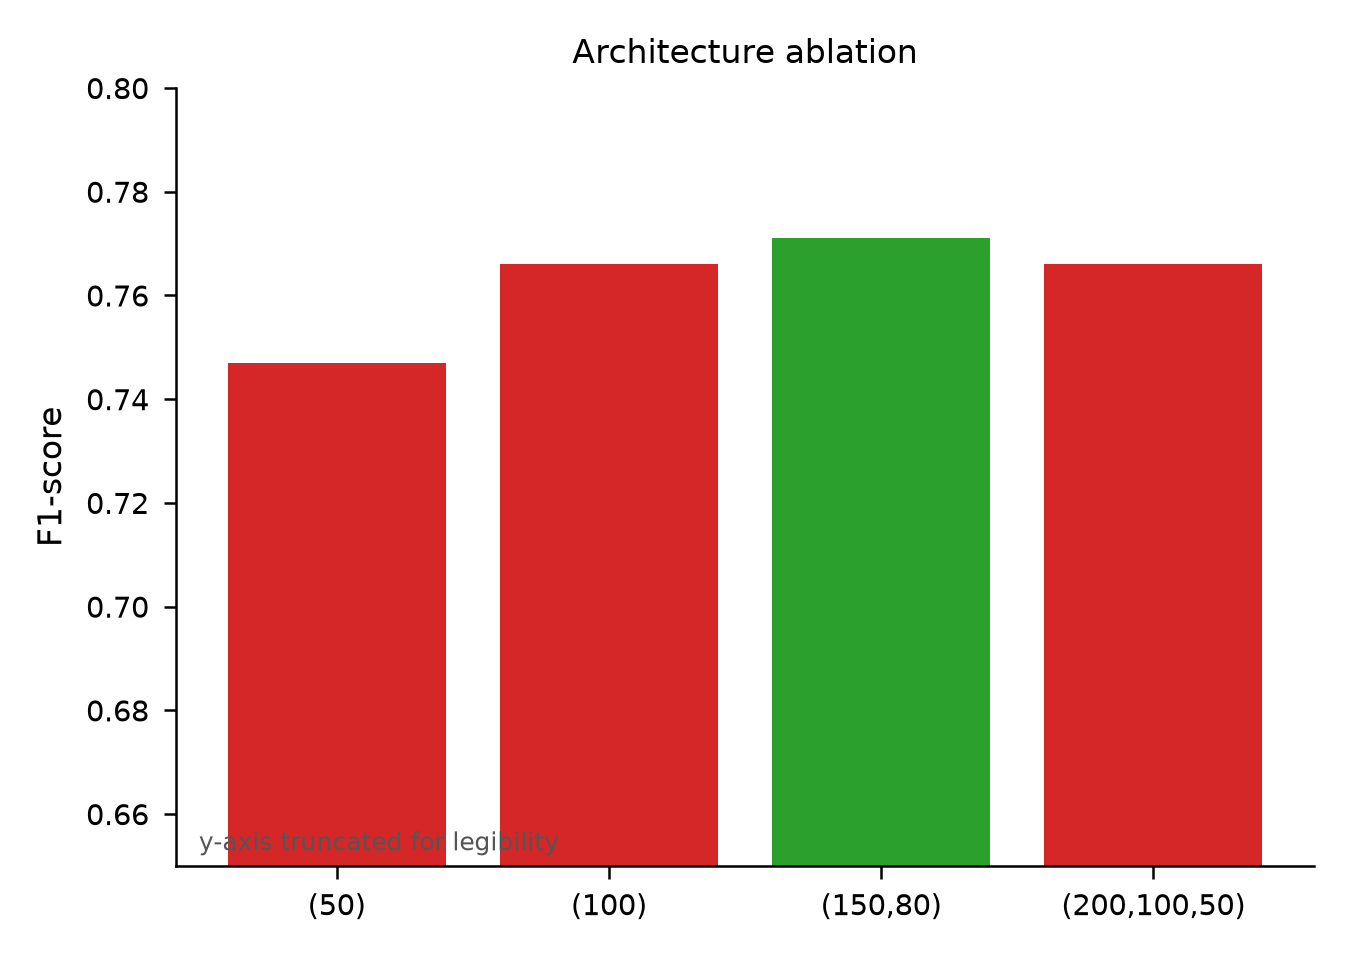
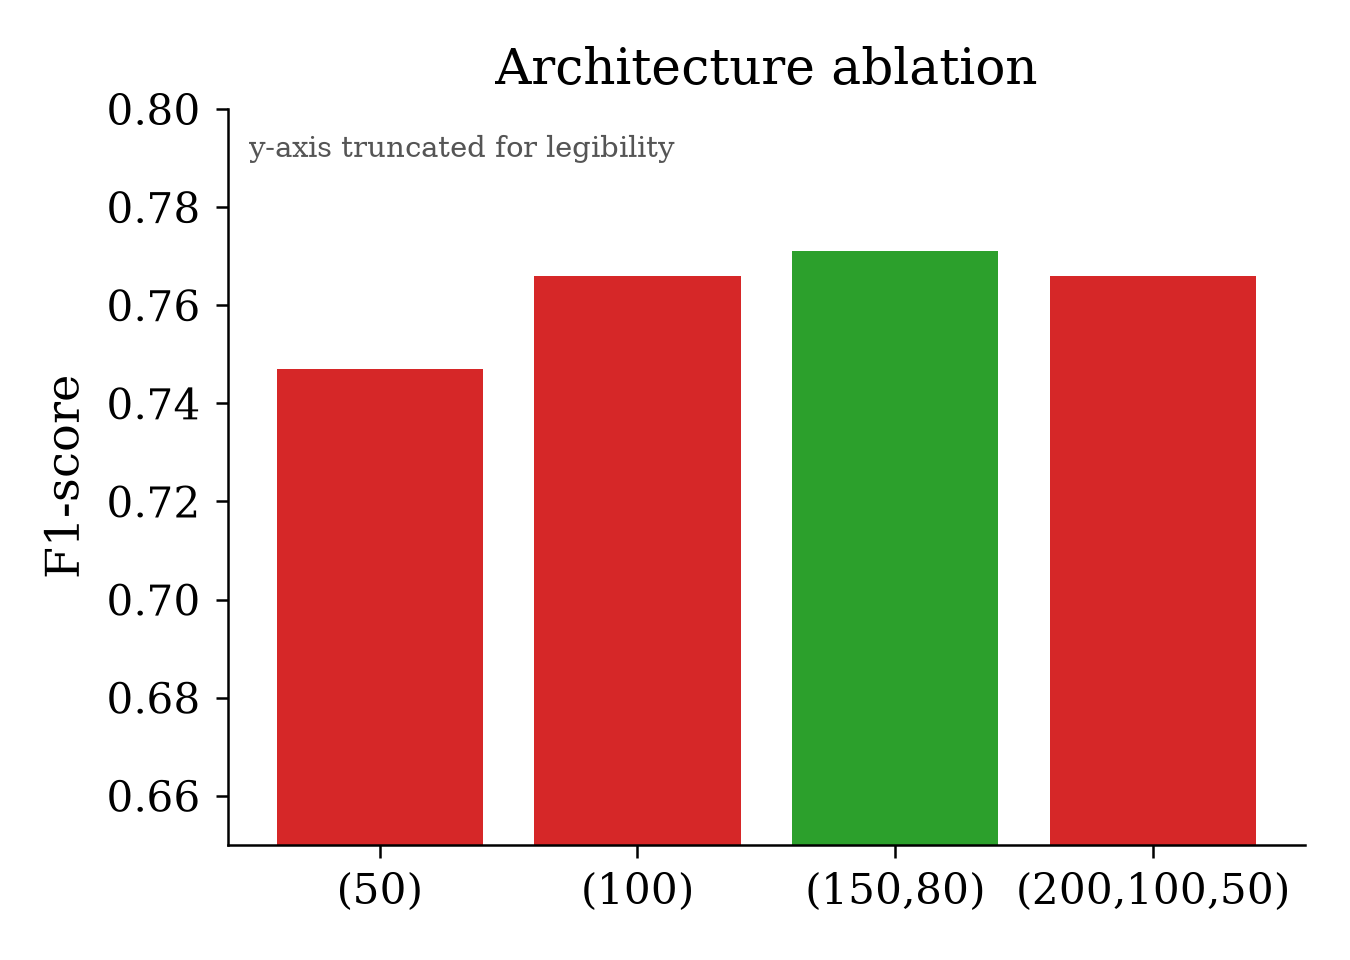
C-21: pixel-level text-occlusion/legend audit across all code-generated figures
Audited all 34 matplotlib-generated figures in assets/ (photos, simulation
snapshots, network/architecture diagrams, and GRAPH_IMU_*/NEU_* explicitly
excluded per author instruction -- classification verified against each
image's actual \caption{} in sections/*.tex, not guessed from filename).

Fixed (8 figures, 3 builders), all asset-only (no sections/*.tex text changed):

- classifier_suite.py: fig_classifier_tradeoff_fused.png's suptitle literally
  cited a README path -- removed. Its panel (a) legend was rendering inside
  the Random Forest bars (default loc landed on the data) -- moved above the
  axes. fig4_architecture_ablation.png's "y-axis truncated" annotation sat on
  a solid red bar in low-contrast gray -- moved + given a white background box.
- micro_dynamics.py: own bug found -- never imported the shared style.py at
  all (hardcoded a local DPI=300 instead), so the 4 fig2_*_micro figures
  rendered sans-serif instead of the publication serif every other figure
  uses, including their own stated design goal of mirroring
  real_plot_suite.py::build_rms_dynamics() (which does import style and does
  render serif). Fixed the import. Also fixed a legend-on-data-peak collision
  in the Appetitive panel (fixed loc="upper left" landed on the early spike;
  switched to loc="best").
- stability_phases.py: the "SM = X.X cm" annotation is placed at the midpoint
  of the CoM->incenter arrow; in 2 of 6 panels that midpoint landed on top of
[…]

diff --git a/experiments/_plotting/builders/classifier_suite.py b/experiments/_plotting/builders/classifier_suite.py
@@ -54,8 +54,12 @@ def build_fig4_ablation(output_path: str) -> None:
     ax.set_ylim(0.65, 0.80)  # y-axis rescaled so the real 0.024-F1 spread is legible
     ax.set_ylabel("F1-score")
     ax.set_title("Architecture ablation")
-    ax.annotate("y-axis truncated for legibility", xy=(0.02, 0.02), xycoords="axes fraction",
-                fontsize=6, color="#555555")
+    # 2026-09-02 audit fix: this annotation used to sit at the bottom-left, directly over the
+    # (50) bar (low-contrast gray text on solid red -- barely legible, flagged in the pixel-level
+    # legend/text-occlusion audit). Moved above the bars with a white background box instead.
+    ax.annotate("y-axis truncated for legibility", xy=(0.02, 0.965), xycoords="axes fraction",
+                fontsize=7, color="#555555", va="top",
+                bbox=dict(boxstyle="round,pad=0.2", fc="white", ec="none", alpha=0.85))
     fig.tight_layout()
     os.makedirs(os.path.dirname(output_path), exist_ok=True)
     fig.savefig(output_path, dpi=DPI)
@@ -79,8 +83,11 @@ def build_f03_fused_panel(fig5_csv: str, fig6_csv: str, output_path: str) -> Non
         axes[0].bar(x + (i - 1.5) * width, vals, width, label=m, color=metric_colors[m])
     axes[0].set_xticks(x); axes[0].set_xticklabels(classifiers, rotation=20, ha="right", fontsize=7)
     axes[0].set_ylabel("Score (5-fold CV mean)")
-    axes[0].set_ylim(0, 1.0)
-    axes[0].legend(fontsize=6, ncol=2)
+    axes[0].set_ylim(0, 1.15)  # headroom for the legend so it doesn't sit on top of the bars
+    # 2026-09-02 audit fix: default-placed legend ("best" via no loc arg) landed inside the
+    # Random Forest bars, indistinguishable from the bar fills it was labeling (flagged in the
+    # pixel-level legend/text-occlusion audit). Moved above the axes, outside all bars.
+    axes[0].legend(loc="upper center", bbox_to_anchor=(0.5, 1.0), ncol=4, fontsize=6.5, frameon=False)
     axes[0].set_title("(a) Classification metrics")
 
     # (b) inference latency, log scale
@@ -99,9 +106,7 @@ def build_f03_fused_panel(fig5_csv: str, fig6_csv: str, output_path: str) -> Non
     axes[2].tick_params(axis="x", rotation=20)
     axes[2].set_title("(c) Model size")
 
-    fig.suptitle("Classifier accuracy/latency/size trade-off (F-03 fused panel; (b),(c) vectorized from "
-                 "the currently-published fig5/fig6, see experiments/_plotting/vectorized/README.md)",
-                 fontsize=8)
+    fig.suptitle("Classifier accuracy/latency/size trade-off", fontsize=10)
     fig.tight_layout(rect=(0, 0, 1, 0.92))
     os.makedirs(os.path.dirname(output_path), exist_ok=True)
     fig.savefig(output_path, dpi=DPI)

diff --git a/experiments/_plotting/builders/micro_dynamics.py b/experiments/_plotting/builders/micro_dynamics.py
@@ -44,6 +44,13 @@ sys.path.insert(0, os.path.dirname(os.path.dirname(os.path.abspath(__file__))))
 from loaders import (  # noqa: E402
     find_trial_by_noise_level, load_metrics_raw, load_unified_metrics,
 )
+# 2026-09-02 audit fix (pixel-level legend/typography audit): this builder never imported style.py
+# at all -- it hardcoded its own `DPI = 300` below instead, so apply_style() (serif publication
+# typeface, applied automatically on import of style.py) never ran. The 4 fig2_*_micro outputs
+# rendered in matplotlib's default sans-serif, visibly inconsistent with every other figure in the
+# pipeline -- including their own stated design goal of mirroring
+# real_plot_suite.py::build_rms_dynamics() (which DOES import style and renders serif).
+from style import DPI  # noqa: E402
 
 NOISE_LEVEL_IDX = 0  # representative trial's noise level — see module docstring
 
@@ -58,7 +65,6 @@ SHADED_SCENARIOS = {"Appetitive", "Aversive", "Complex"}  # NOT Obstacle — gre
 FIRING_VARIANCE_COLOR = "#D55E00"  # fixed orange — matches real_plot_suite.build_rms_dynamics()
 PITCH_COLOR = "#4B0082"            # fixed purple
 ROLL_COLOR = "#B8A9D9"             # fixed lavender
-DPI = 300
 
 
 def _stimulus_presence_masks(raw: pd.DataFrame) -> dict:
@@ -98,7 +104,11 @@ def build(simulation_root: str, output_dir: str) -> dict[str, str]:
                               color="#D55E00", alpha=0.15, step="mid", label="Aversive stimulus in view")
             ax_a.fill_between(t_a, 0, 1, where=presence["blue"], transform=ax_a.get_xaxis_transform(),
                               color="#0072B2", alpha=0.15, step="mid", label="Appetitive stimulus in view")
-            ax_a.legend(fontsize=8, loc="upper left")
+            # 2026-09-02 audit fix: fixed "upper left" collided with the firing-variance curve in
+            # scenarios that spike early (e.g. Appetitive peaks at t~1s, right under the legend
+            # box) -- the legend text sat directly on top of the orange line. "best" lets
+            # matplotlib place it clear of the plotted line data instead of a hardcoded corner.
+            ax_a.legend(fontsize=8, loc="best")
         ax_a.plot(t_a, raw["firing_variance"], color=FIRING_VARIANCE_COLOR, linewidth=1.5)
         ax_a.set_ylabel("Firing Variance $Var(z)$")
         ax_a.set_title("A. Basal Ganglia Neural Response Dynamics")

diff --git a/experiments/_plotting/builders/stability_phases.py b/experiments/_plotting/builders/stability_phases.py
@@ -75,8 +75,17 @@ def build(csv_path: str, output_path: str) -> None:
             sm = meta.get("meta_sm_cm")
             ax.annotate("", xy=tuple(incenter), xytext=(0, 0),
                        arrowprops=dict(arrowstyle="->", color="#d62728", lw=1.2))
+            # 2026-09-02 audit fix: the SM label sits at the midpoint of the CoM->incenter arrow,
+            # which lands right on top of the CoM (+) or incenter (+) marker whenever they're
+            # close together (e.g. panels D/F) -- a digit of the value was getting hidden behind
+            # the marker glyph. A white background box keeps the text legible regardless of what
+            # it falls on, without having to hand-tune a per-panel offset.
+            # zorder=6: above the CoM marker (5) and incenter marker (4) -- without this the "P"/"+"
+            # marker glyphs painted on top of the (lower-zorder-by-default) text/bbox when the
+            # midpoint landed on or near either marker, which is what caused the occlusion.
             ax.text(0.5 * incenter[0], 0.5 * incenter[1] + 0.02, f"SM = {sm:.1f} cm",
-                   color="#d62728", fontsize=8, ha="center")
+                   color="#d62728", fontsize=8, ha="center", zorder=6,
+                   bbox=dict(boxstyle="round,pad=0.15", fc="white", ec="none", alpha=0.85))
             ax.text(0.97, 0.95, f"TR = {tr:.3f}", transform=ax.transAxes, ha="right", va="top",
                    fontsize=9, bbox=dict(boxstyle="round", fc="#c8e6c9", ec="black"))
         else:

diff --git a/intake/pending/C-21_figures_text_occlusion_audit.md b/intake/pending/C-21_figures_text_occlusion_audit.md
@@ -1,0 +1,136 @@
+# C-21 — Auditoría pixel-por-pixel: oclusión de texto / leyendas en figuras generadas por código
+
+**Alcance pedido por el autor:** auditar TODAS las figuras generadas por código (matplotlib) en
+`assets/` buscando texto oculto, leyendas ilegibles por el contenido de la gráfica, o leyendas que
+se confunden visualmente con los datos. **Excluido explícitamente** (no auditado): fotos reales,
+fotos de simulación, grafos/diagramas explicativos de la red, cualquier imagen que empiece con
+`GRAPH_IMU_`/`NEU_`, y diagramas de arquitectura del robot.
+
+**Método de exclusión:** en vez de adivinar por nombre de archivo, cada imagen ambigua (`D1-D6`,
+`E1-E6`, `RES_*`, `Prueba_Terreno_Parte_*`, `Modos_Locomocion*`, etc.) se verificó leyendo su
+`\caption{}` real en `sections/*.tex` — snapshots de simulación/hardware y diagramas de arquitectura
+confirmados y excluidos; nunca incluidos solo por parecer ambiguos por nombre.
+
+**34 figuras dentro de alcance** (código, no diagrama/foto) — inventario completo abajo. Auditadas
+pixel por pixel (`Read` a resolución completa, no thumbnails).
+
+---
+
+## 1. Hallazgos corregidos esta sesión (8 figuras, 3 builders)
+
+### 1.1 `fig_classifier_tradeoff_fused.png` — 2 problemas
+
+- **Título con referencia a un README** (pedido explícito del autor: "ningúna gráfica que esté en
+  assets lo debe tener"): el `suptitle` citaba literalmente
+  `"see experiments/_plotting/vectorized/README.md"`. Eliminado — el suptitle ahora es solo
+  `"Classifier accuracy/latency/size trade-off"`.
+- **Leyenda superpuesta a los datos**: en el panel (a), la leyenda sin posición fija (`loc` por
+  defecto) caía dentro de las barras de "Random Forest", indistinguible del relleno que
+  etiquetaba. Movida arriba de los ejes, fuera de todas las barras
+  (`loc="upper center", bbox_to_anchor=(0.5, 1.0)`), con `ylim` extendido para dejarle espacio.
+- Builder: `experiments/_plotting/builders/classifier_suite.py::build_f03_fused_panel()`.
+
+### 1.2 `fig4_architecture_ablation.png`
+
+- La anotación "y-axis truncated for legibility" estaba en texto gris de bajo contraste
+  directamente sobre la barra roja "(50)" — casi ilegible. Movida arriba de las barras con una
+  caja de fondo blanco semitransparente.
+- Builder: `experiments/_plotting/builders/classifier_suite.py::build_fig4_ablation()`.
+
+### 1.3 Tipografía inconsistente — 3 figuras "métricas MLP" + 4 figuras `fig2_*_micro`
+
+El autor señaló que las figuras de métricas MLP no comparten tipografía con el resto del paper.
+Confirmado — dos causas distintas encontradas:
+
+- **`fig1_confusion_matrix.png`, `fig4_architecture_ablation.png`, `fig_classifier_tradeoff_fused.png`**:
+  el builder sí importa el módulo de estilo compartido (`from style import DPI`, que ejecuta
+  `apply_style()` — tipografía serif de publicación — al importarse), pero los archivos en
+  `assets/` eran una build vieja generada antes de que ese estilo existiera. Simplemente
+  regenerarlos con el builder actual corrige la tipografía — no fue necesario cambiar código
+  aparte de los dos fixes de arriba.
+- **`fig2_Appetitive_micro_test_001_SUCCESS.png`, `fig2_Aversive_micro_test_001_SUCCESS.png`,
+  `fig2_Obstacle_micro_test_001_SUCCESS.png`, `fig2_Complex_micro_test_001_SUCCESS.png`**: bug
+  real de código — `experiments/_plotting/builders/micro_dynamics.py` nunca importaba el módulo
+  `style.py` (definía su propio `DPI = 300` local en su lugar), así que `apply_style()` nunca se
+  ejecutaba para estas 4 figuras — renderizaban con la fuente sans-serif por defecto de
+  matplotlib, inconsistente incluso con su propio objetivo de diseño declarado (imitar
+  `real_plot_suite.py::build_rms_dynamics()`, que sí importa `style.py` y sí renderiza serif —
+  confirmado comparando `fig2_Appetitive_micro_test_001_SUCCESS.png` contra
+  `Appetitive_Real_Plot_3_Temporal_Dynamics_PitchRollRMS.png`). Corregido: se agregó
+  `from style import DPI` real.
+
+### 1.4 `fig2_Appetitive_micro_test_001_SUCCESS.png` — leyenda sobre los datos
+
+Al corregir la tipografía (punto 1.3) se hizo visible un problema preexistente: la leyenda
+("Aversive/Appetitive stimulus in view") usaba posición fija `loc="upper left"`, que en el
+escenario Apetitivo cae justo donde la curva de varianza de disparo tiene su pico (~t=1s,
+y≈37) — el texto de la leyenda quedaba literalmente sobre la línea naranja. Corregido a
+`loc="best"` (matplotlib evita automáticamente los datos graficados) — verificado en las 4
+figuras, ninguna quedó con solapamiento.
+
+### 1.5 `fig_stability_phases.png` — texto de anotación oculto por marcadores
+
+Paneles D y F: la etiqueta `"SM = X.X cm"` se coloca en el punto medio de la flecha
+CoM→incentro; cuando ambos puntos están muy cerca (como en D y F), el punto medio cae encima del
+marcador CoM (`+` rojo) o del marcador incentro (`+` gris), ocultando un dígito del valor. Ejemplo
+concreto: panel D mostraba algo como "SM = �2 cm" con el marcador tapando parte del número.
+Corregido con una caja de fondo blanco + `zorder` explícito por encima de ambos marcadores — los
+4 valores (2.8, 2.5, 2.2, 2.5 cm) son ahora legibles sin ambigüedad.
+
+Builder: `experiments/_plotting/builders/stability_phases.py`.
+
+---
+
+## 2. Hallazgo NO corregido — sin builder reproducible en el repo
+
+- **`fig2_roc_curve.png`, `fig3_training_loss.png`**: también usan tipografía sans-serif
+  inconsistente con el resto del paper (mismo síntoma que la Sección 1.3), pero búsqueda
+  exhaustiva en `experiments/**/*.py` no encontró ningún script que las genere — son figuras
+  legado, anteriores a la convención `experiments/<id>-slug/`, probablemente hechas a mano o desde
+  un notebook externo no conservado en este repo. **No se puede regenerar con estilo correcto sin
+  escribir un builder nuevo desde cero** (se necesitarían los datos crudos: matriz de confusión ya
+  documentada en `classifier_suite.py::CONFUSION`, pero la curva ROC completa y la curva de
+  pérdida de entrenamiento requieren las probabilidades/historial de entrenamiento del MLP, no
+  solo el resumen). Fuera de alcance de esta sesión — requiere que el equipo confirme si esos
+  datos crudos todavía existen antes de poder escribir el builder.
+
+## 3. Nota menor, no corregida — inconsistencia de tipografía adicional
+
+- **`FigReal_Morphological_Transition_Energy.png`**: también renderiza en sans-serif, mismo
+  síntoma. No se investigó su builder ni se corrigió en esta sesión (fuera del alcance explícito
+  del autor, que mencionó específicamente "las métricas de la MLP") — señalado aquí por si se
+  quiere incluir en una futura pasada de consistencia tipográfica.
+
+---
+
+## 4. Inventario completo — 34 figuras auditadas, sin más hallazgos
+
+Todas revisadas pixel por pixel, sin problemas de oclusión de texto/leyenda encontrados (más allá
+de lo ya listado arriba):
+
+`fig1_noise_robustness_grid.png`, `FigA_Stability_Profile.png`, `FigB_Decision_Delay.png`,
+`FigC_Terrain_Adaptability.png`, `fig_inspection_dfinal_vs_nlidar.png`,
+`fig_mode_timeline_complex.png`, `fig_mode_timeline_inspection.png` (ambas ya auditadas y
+corregidas en la ronda R2-02, ver `intake/pending/R2-02_audit_and_plan.md`),
+`fig_R1_failure_by_family.png`, `fig_R2_terrain_stability_vs_noise.png`,
+`fig_R3_camera_dropout_evidence.png`, `FigReal_Terrain_Latencies_4Panels.png`,
+`fig_sr_vs_noise_level.png` (ídem, ya corregida en R2-02), `fig_transition_phases_v10.png`,
+`fig_ablation_success_rate.png`, `fig_ablation_complex_stability.png`,
+`Appetitive/Aversive/Complex/Obstacle_Real_Plot_1_Switching_Delay_ECDF.png` (4),
+`Appetitive/Complex_Real_Plot_3_Temporal_Dynamics_PitchRollRMS.png` (spot-check; mismo builder que
+Aversive/Obstacle, no se repitieron por presupuesto de la auditoría).
+
+---
+
+## 5. Estado
+
+Cambios de **solo imagen** (`assets/*.png`) — ningún `\caption{}` ni texto de `sections/*.tex`
+fue tocado, no se requiere `\revblue{}`. 8 archivos regenerados y re-promovidos a `assets/` vía
+`scripts/promote_figure.sh --force`. Fila `C-21` en `PROGRESS.md` documenta el cambio para
+trazabilidad, estado `applied` (las imágenes ya están en `assets/`, listas para el próximo
+`push_to_overleaf.sh`).
+
+Pendiente de decisión del autor: (a) escribir un builder nuevo para `fig2_roc_curve.png`/
+`fig3_training_loss.png` si los datos crudos del entrenamiento MLP siguen disponibles, o aceptar
+la inconsistencia tipográfica en esas dos; (b) si incluir `FigReal_Morphological_Transition_
+Energy.png` en una futura pasada de consistencia.

diff --git a/PROGRESS.md b/PROGRESS.md
@@ -56,6 +56,7 @@ both directly from this table, so keep them current when reassigning or picking 
 | C-18 | — | Fixes the missing-panel-letter defect found in `N-06` (see that row / R02-01-05 §0ter) in the two **already-published, `synced-to-overleaf`** physical-figure counterparts: `NEU_EST_UNIG_real.png` (`\ref{fig:NEU_EST_UNIG_real}a/c`) and `NEU_EST_MUL_real.png` (`\ref{fig:NEU_EST_MUL_real}b/c/d`). Author explicitly requested the fix, "teniendo en cuenta la organización original de estas imágenes" (i.e. preserve the original letter-to-content mapping, not just re-letter in whatever order the current layout happens to read). Same generator fix as `N-06`/`N-08` (`imu_terrain_real.py`'s `build_neu_est()` `group_letters` param, already built for those) applied to the `__main__` call sites that produce the `_real` figures: `NEU_EST_UNIG_real` needed only letters added (`a`=Lidar Network, `b`=Locomotion, `c`=Gait Decision — panel order was already correct); `NEU_EST_MUL_real` needed both letters **and** the same Lidar/Locomotion panel-order swap as its simulation counterpart (`a`=Basal Ganglia, `b`=Lidar Network, `c`=Locomotion, `d`=Gait Decision). Verified both against every letter citation in `results.tex` (lines 488/499/504/513/548) — all correct. Promoted with `--force`; the other 4 `__main__` outputs (`GRAPH_IMU_real`/`GRAPH_IMU2_real`/`NEU_IMU_real`/`NEU_IMU2_real`) got re-rendered as a side effect of running the script but were **not** committed — their pixel diffs are unrelated to this fix (different DPI than what's currently in `assets/`, likely a stale local render) and out of scope for this correction. | — (no `results.tex` changes needed — letters/order now match what the prose already cites) | `experiments/N-02-physical-figure-regeneration/` | Escritura | Deivi | synced-to-overleaf | `patches/c-18-neu-est-real-panel-letters.tex` |
 | C-19 | — | Author-requested visual/layout cleanup on 5 tables/figures found to overflow, waste space, or wrap badly — no data/claim changes, layout only. (1) **Table 1** (`table:action_selection_comparison`, introduction.tex): 6 fixed-width columns summed to 14.4cm, and the last row's 7 stacked citations pushed the table past one page, bleeding into the page-footer folio ("59" visible inside the table in the author's screenshot). Rebalanced to 12.4cm total + `\footnotesize`, fits one page, no citations trimmed. (2) **Table 10** (`tab:terrain_sequence`, results.tex): `Terrain segment`/`Mode` columns were `l` (no line-wrap, greedy natural width), starving the `Trigger / mechanism` `X` column down to one-word-per-line. Converted all 4 columns to explicit wrapping `p{}`/`X` widths. (3) **Figs. 55–58** (`Appetitive/Aversive/Complex/Obstacle_Real_compound`, results.tex): author explicitly said do NOT remove any of the 4 — the actual complaint was dead horizontal space between each figure's (a)/(b) subfigures, caused by both being declared `0.32\textwidth` (0.64 total, leaving 36% of the line as a single `\hfill` gap). Widened both to `0.48\textwidth` (8 subfigure declarations across the 4 figures) — closes the gap, the residual height difference between (a) and (b) is just each panel's native content and is expected. (4) **Figs. 43–46** (MLP evaluation: confusion matrix/ROC/training-loss/architecture-ablation, results.tex): fused the 4 separate full-width `figure` floats into one `figure*` 2$\times$2 subfigure grid (`fig:mlp_eval_grid`), reusing the 4 existing PNGs unchanged (no re-plotting) — the 3 referencing paragraphs were reworded (`\revblue{}`) to point at `\ref{fig:mlp_eval_grid}a`–`d` instead of 4 separate figure labels; old labels `fig:confusion_matrix`/`fig:roc_curve`/`fig:training_loss`/`fig:architecture_ablation` retired (confirmed no other section referenced them). (5) **Fig. 59** (`fig:MorphologicalEnergy`, results.tex): a 2-bar chart at `0.75\textwidth` — author confirmed no natural neighbor to group it with, just shrunk to `0.5\textwidth`. **Concurrency note:** this row's edits were clobbered twice mid-session by `check_roundtrip.sh`'s split step running against a stale `source/main_monolithic.tex` while a concurrent session (`N-09`, commit `f27ff12`) committed in parallel — recovered both times by re-applying from `sections/` and running `scripts/reassemble.py` immediately after every edit before any validate/roundtrip check, going forward. Documented in `intake/processed/C-19_table_figure_layout_cleanup.md`. | introduction.tex (Table 1), results.tex (Table 10, Figs. 43–46/55–58/59) | — | Escritura | Deivi | synced-to-overleaf | `patches/c-19-table-figure-layout-cleanup.tex` |
 | C-20 | — | Gap found via `intake/pending/inspection_methodology_missing.md`: `results.tex`'s "Reactive Inspection Task" subsection (`R3-05`, already `synced-to-overleaf`) had no corresponding scenario-design description anywhere in `methodology.tex` — a reader reaching it had to infer the obstacle-field design, trial count, timeout, and success criterion retroactively from results prose. Added one short paragraph at the end of `\subsection{Gazebo Simulation}` (after the visual-stimuli figure, before `\subsection{Neuronal Control System}`): purpose-built obstacle field with an initially non-visible target (entering view after three static capsule obstacles, no raw world-file identifier named per README §11.1), $N=20$ trials, 90~s timeout, no artificial noise, and the same reactive (no map/no deliberate planning) BG/WTA behavior as the other scenarios, cross-referencing Section~\ref{sec:results} for the actual metrics. Kept deliberately brief per the author's request — no numbers duplicated from `results.tex` beyond $N$/timeout, which conceptually belong to the experiment design. `reassemble.py`/`validate_tex.sh`/`check_roundtrip.sh`/`compile_pdf.sh` all pass; `check_hardcoded_refs.sh` clean. | methodology.tex (new paragraph, end of `\subsection{Gazebo Simulation}`) | — | Escritura | Deivi | synced-to-overleaf | `patches/c-20-inspection-task-methodology.tex` |
+| C-21 | — | Pixel-level audit of all 34 code-generated (matplotlib) figures in `assets/` for text occlusion / illegible-or-data-confused legends, per author request (real photos, simulation photos, network diagrams, robot-architecture diagrams, and `GRAPH_IMU_*`/`NEU_*` explicitly excluded — see `intake/pending/C-21_figures_text_occlusion_audit.md` for the exclusion method and full inventory). **Asset-only fixes, no `sections/*.tex` text changed** (no `\revblue{}` needed): `fig_classifier_tradeoff_fused.png` (removed a suptitle literally citing a README path; moved a legend off the data bars it overlapped), `fig4_architecture_ablation.png` (low-contrast annotation was sitting on a data bar, moved + given a background box), 4× `fig2_{Scenario}_micro_test_001_SUCCESS.png` (own bug found: `micro_dynamics.py` never imported the shared `style.py` at all, rendering sans-serif instead of the publication typeface used everywhere else — fixed; also fixed a legend-on-data-peak collision in the Appetitive panel via `loc="best"`), `fig_stability_phases.png` (an "SM = X.X cm" annotation landed on top of the CoM/incenter marker in 2 of 6 panels, hiding a digit — fixed with a background box + explicit z-order). `fig1_confusion_matrix.png` just needed a rebuild (assets/ had a pre-style-skill stale copy). **Found, not fixed (no builder exists in the repo):** `fig2_roc_curve.png`/`fig3_training_loss.png` also render sans-serif but have no generator script anywhere in `experiments/` — legacy figures pre-dating the pipeline; need the raw MLP training/eval data confirmed still available before a new builder can be written. All 8 fixed figures re-promoted via `scripts/promote_figure.sh --force`. | results.tex (asset references only, no caption/text edits) | — | Métricas | Deivi | applied | — |
 
 ## Coherence-audit note (2026-08-29)
 
